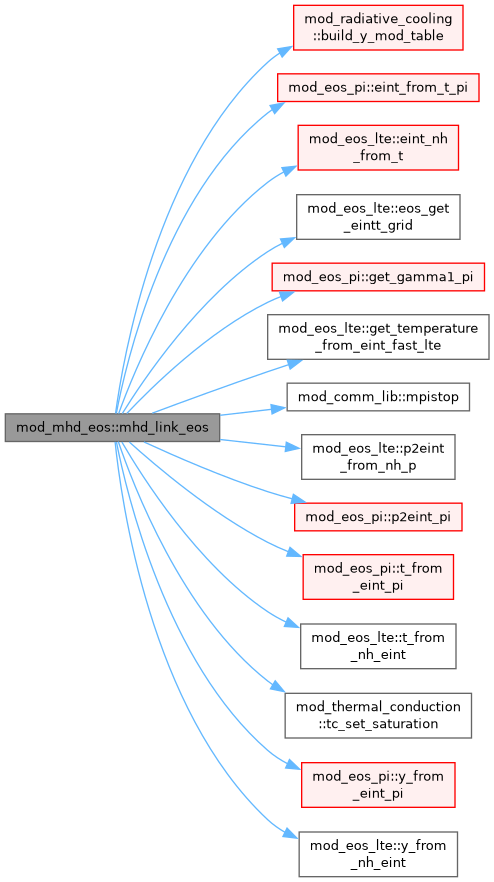
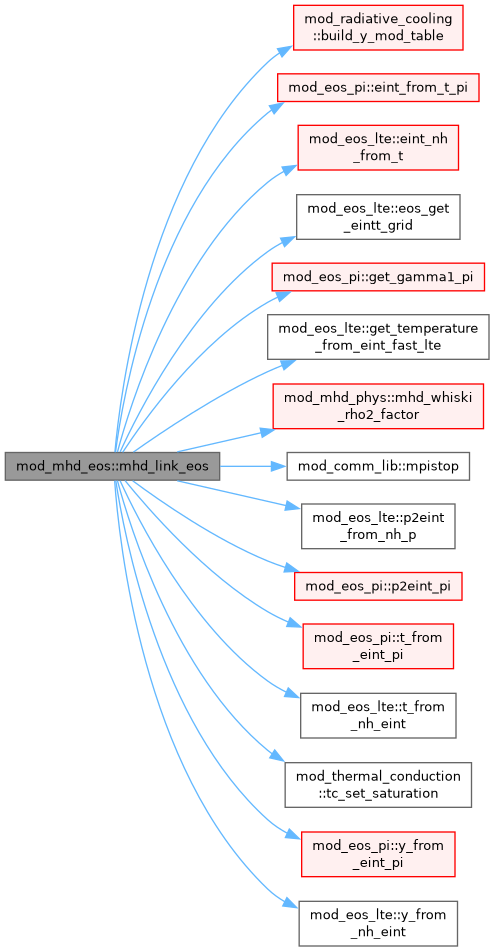
dev: deploy amrvac/amrvac@4fe51566e8b4ff9b4a8955e2d6c0c22a7fa722a2

diff --git a/mod__mhd__eos_8t_source.html b/mod__mhd__eos_8t_source.html
@@ -399,7 +399,7 @@ $(function() {
 <div class="line"><a id="l00315" name="l00315"></a><span class="lineno">  315</span>            <a class="code hl_variable" href="namespacemod__mhd__phys.html#adcca1862268ee54fa05cfb36ae7d0d48">rc_fl</a>%get_Te           =&gt; <a class="code hl_variable" href="namespacemod__eos__container.html#aad5b9c22f699a6e8a815b39b40e58c3b">eos</a>%get_Te</div>
 <div class="line"><a id="l00316" name="l00316"></a><span class="lineno">  316</span>            <a class="code hl_variable" href="namespacemod__mhd__phys.html#adcca1862268ee54fa05cfb36ae7d0d48">rc_fl</a>%get_ne_nH        =&gt; <a class="code hl_variable" href="namespacemod__eos__container.html#aad5b9c22f699a6e8a815b39b40e58c3b">eos</a>%get_ne_nH</div>
 <div class="line"><a id="l00317" name="l00317"></a><span class="lineno">  317</span>            <span class="keyword">nullify</span>(<a class="code hl_variable" href="namespacemod__mhd__phys.html#adcca1862268ee54fa05cfb36ae7d0d48">rc_fl</a>%get_rho2_factor)</div>
-<div class="line"><a id="l00318" name="l00318"></a><span class="lineno">  318</span>            <span class="keywordflow">if</span>(mhd_uawsom) <a class="code hl_variable" href="namespacemod__mhd__phys.html#adcca1862268ee54fa05cfb36ae7d0d48">rc_fl</a>%get_rho2_factor =&gt; mhd_uawsom_rho2_factor</div>
+<div class="line"><a id="l00318" name="l00318"></a><span class="lineno">  318</span>            <span class="keywordflow">if</span>(<a class="code hl_variable" href="namespacemod__mhd__phys.html#a7d524e70c8243d108fb944fdf430eb3a">mhd_whiski</a>) <a class="code hl_variable" href="namespacemod__mhd__phys.html#adcca1862268ee54fa05cfb36ae7d0d48">rc_fl</a>%get_rho2_factor =&gt; <a class="code hl_function" href="namespacemod__mhd__phys.html#a44de62723a9f463dcb064ebc69d0eabe">mhd_whiski_rho2_factor</a></div>
 <div class="line"><a id="l00319" name="l00319"></a><span class="lineno">  319</span>            <a class="code hl_variable" href="namespacemod__mhd__phys.html#adcca1862268ee54fa05cfb36ae7d0d48">rc_fl</a>%ionE              =  <a class="code hl_variable" href="namespacemod__eos__container.html#aad5b9c22f699a6e8a815b39b40e58c3b">eos</a>%ionE</div>
 <div class="line"><a id="l00320" name="l00320"></a><span class="lineno">  320</span>            <a class="code hl_variable" href="namespacemod__mhd__phys.html#adcca1862268ee54fa05cfb36ae7d0d48">rc_fl</a>%method_analytic   =  (<a class="code hl_variable" href="namespacemod__eos__container.html#aad5b9c22f699a6e8a815b39b40e58c3b">eos</a>%method_id == <a class="code hl_variable" href="namespacemod__eos__container.html#a0ae5bc58e4bc026852566124608cc16b">eos_analytic</a>)</div>
 <div class="line"><a id="l00321" name="l00321"></a><span class="lineno">  321</span>            <a class="code hl_variable" href="namespacemod__mhd__phys.html#adcca1862268ee54fa05cfb36ae7d0d48">rc_fl</a>%inv_gamma_minus_1 =  <a class="code hl_variable" href="namespacemod__eos__container.html#aad5b9c22f699a6e8a815b39b40e58c3b">eos</a>%inv_gamma_minus_1</div>
@@ -482,7 +482,7 @@ $(function() {
 <div class="line"><a id="l00398" name="l00398"></a><span class="lineno">  398</span>            w(ix^<a class="code hl_variable" href="namespacemod__global__parameters.html#a71ee003132d53879487a9076243b2402">d</a>,<a class="code hl_variable" href="namespacemod__mhd__phys.html#af2b9bdeeb09848cd198ccab0f78b68fd">e_</a>)=w(ix^<a class="code hl_variable" href="namespacemod__global__parameters.html#a71ee003132d53879487a9076243b2402">d</a>,<a class="code hl_variable" href="namespacemod__mhd__phys.html#ab5d8d7978ec9cd3f0a993f2ef2f69a06">p_</a>)*<a class="code hl_variable" href="namespacemod__eos__container.html#aad5b9c22f699a6e8a815b39b40e58c3b">eos</a>%inv_gamma_minus_1&amp;</div>
 <div class="line"><a id="l00399" name="l00399"></a><span class="lineno">  399</span>                      +half*((^<a class="code hl_variable" href="namespacemod__mhd__phys.html#ab9e60feb1a18a8074f83808e28247364">c</a>&amp;w(ix^<a class="code hl_variable" href="namespacemod__global__parameters.html#a71ee003132d53879487a9076243b2402">d</a>,<a class="code hl_variable" href="namespacemod__mhd__phys.html#a57989011f7e48288199305748bd4fa74">m</a>^<a class="code hl_variable" href="namespacemod__mhd__phys.html#a0285509f6d1009369a7680950f365ec2">c_</a>)**2+)*w(ix^<a class="code hl_variable" href="namespacemod__global__parameters.html#a71ee003132d53879487a9076243b2402">d</a>,<a class="code hl_variable" href="namespacemod__mhd__phys.html#ae48aad345c8ca4904b533b3f986c8263">rho_</a>)&amp;</div>
 <div class="line"><a id="l00400" name="l00400"></a><span class="lineno">  400</span>                      +(^<a class="code hl_variable" href="namespacemod__mhd__phys.html#ab9e60feb1a18a8074f83808e28247364">c</a>&amp;w(ix^<a class="code hl_variable" href="namespacemod__global__parameters.html#a71ee003132d53879487a9076243b2402">d</a>,<a class="code hl_variable" href="namespacemod__mhd__phys.html#ac21f646cc9e76a808c9e86b0c86d8a6f">b</a>^<a class="code hl_variable" href="namespacemod__mhd__phys.html#a0285509f6d1009369a7680950f365ec2">c_</a>)**2+))</div>
-<div class="line"><a id="l00401" name="l00401"></a><span class="lineno">  401</span>            <span class="keywordflow">if</span>(mhd_uawsom) w(ix^<a class="code hl_variable" href="namespacemod__global__parameters.html#a71ee003132d53879487a9076243b2402">d</a>,<a class="code hl_variable" href="namespacemod__mhd__phys.html#af2b9bdeeb09848cd198ccab0f78b68fd">e_</a>)=w(ix^<a class="code hl_variable" href="namespacemod__global__parameters.html#a71ee003132d53879487a9076243b2402">d</a>,<a class="code hl_variable" href="namespacemod__mhd__phys.html#af2b9bdeeb09848cd198ccab0f78b68fd">e_</a>)+&amp;</div>
+<div class="line"><a id="l00401" name="l00401"></a><span class="lineno">  401</span>            <span class="keywordflow">if</span>(<a class="code hl_variable" href="namespacemod__mhd__phys.html#a7d524e70c8243d108fb944fdf430eb3a">mhd_whiski</a>) w(ix^<a class="code hl_variable" href="namespacemod__global__parameters.html#a71ee003132d53879487a9076243b2402">d</a>,<a class="code hl_variable" href="namespacemod__mhd__phys.html#af2b9bdeeb09848cd198ccab0f78b68fd">e_</a>)=w(ix^<a class="code hl_variable" href="namespacemod__global__parameters.html#a71ee003132d53879487a9076243b2402">d</a>,<a class="code hl_variable" href="namespacemod__mhd__phys.html#af2b9bdeeb09848cd198ccab0f78b68fd">e_</a>)+&amp;</div>
 <div class="line"><a id="l00402" name="l00402"></a><span class="lineno">  402</span>                 w(ix^<a class="code hl_variable" href="namespacemod__global__parameters.html#a71ee003132d53879487a9076243b2402">d</a>,<a class="code hl_variable" href="namespacemod__mhd__phys.html#aaab717c0eb43a835a69521eef7cc131f">waplus_</a>)+w(ix^<a class="code hl_variable" href="namespacemod__global__parameters.html#a71ee003132d53879487a9076243b2402">d</a>,<a class="code hl_variable" href="namespacemod__mhd__phys.html#a87375e1db5231565b72e5a53272f0c3e">waminus_</a>)+w(ix^<a class="code hl_variable" href="namespacemod__global__parameters.html#a71ee003132d53879487a9076243b2402">d</a>,<a class="code hl_variable" href="namespacemod__mhd__phys.html#ade81ffa113469402c2928e0364aa7c19">wkplus_</a>)+w(ix^<a class="code hl_variable" href="namespacemod__global__parameters.html#a71ee003132d53879487a9076243b2402">d</a>,<a class="code hl_variable" href="namespacemod__mhd__phys.html#a3edb409252283b69b97e28398eeebd90">wkminus_</a>)</div>
 <div class="line"><a id="l00403" name="l00403"></a><span class="lineno">  403</span>            <span class="comment">! Convert velocity to momentum</span></div>
 <div class="line"><a id="l00404" name="l00404"></a><span class="lineno">  404</span>            ^<a class="code hl_variable" href="namespacemod__mhd__phys.html#ab9e60feb1a18a8074f83808e28247364">c</a>&amp;w(ix^<a class="code hl_variable" href="namespacemod__global__parameters.html#a71ee003132d53879487a9076243b2402">d</a>,<a class="code hl_variable" href="namespacemod__mhd__phys.html#a57989011f7e48288199305748bd4fa74">m</a>^<a class="code hl_variable" href="namespacemod__mhd__phys.html#a0285509f6d1009369a7680950f365ec2">c_</a>)=w(ix^<a class="code hl_variable" href="namespacemod__global__parameters.html#a71ee003132d53879487a9076243b2402">d</a>,<a class="code hl_variable" href="namespacemod__mhd__phys.html#ae48aad345c8ca4904b533b3f986c8263">rho_</a>)*w(ix^<a class="code hl_variable" href="namespacemod__global__parameters.html#a71ee003132d53879487a9076243b2402">d</a>,<a class="code hl_variable" href="namespacemod__mhd__phys.html#a57989011f7e48288199305748bd4fa74">m</a>^<a class="code hl_variable" href="namespacemod__mhd__phys.html#a0285509f6d1009369a7680950f365ec2">c_</a>)\</div>
@@ -682,7 +682,7 @@ $(function() {
 <div class="line"><a id="l00598" name="l00598"></a><span class="lineno">  598</span>            w(ix^<a class="code hl_variable" href="namespacemod__global__parameters.html#a71ee003132d53879487a9076243b2402">d</a>,p_)=eos%gamma_minus_1*(w(ix^<a class="code hl_variable" href="namespacemod__global__parameters.html#a71ee003132d53879487a9076243b2402">d</a>,e_)&amp;</div>
 <div class="line"><a id="l00599" name="l00599"></a><span class="lineno">  599</span>                      -half*(w(ix^<a class="code hl_variable" href="namespacemod__global__parameters.html#a71ee003132d53879487a9076243b2402">d</a>,rho_)*(^c&amp;w(ix^<a class="code hl_variable" href="namespacemod__global__parameters.html#a71ee003132d53879487a9076243b2402">d</a>,m^c_)**2+)&amp;</div>
 <div class="line"><a id="l00600" name="l00600"></a><span class="lineno">  600</span>                        +(^c&amp;w(ix^<a class="code hl_variable" href="namespacemod__global__parameters.html#a71ee003132d53879487a9076243b2402">d</a>,b^c_)**2+))&amp;</div>
-<div class="line"><a id="l00601" name="l00601"></a><span class="lineno">  601</span>                      -mhd_uawsom_wave_energy_cell(w(ix^<a class="code hl_variable" href="namespacemod__global__parameters.html#a71ee003132d53879487a9076243b2402">d</a>,:)))</div>
+<div class="line"><a id="l00601" name="l00601"></a><span class="lineno">  601</span>                      -mhd_whiski_wave_energy_cell(w(ix^<a class="code hl_variable" href="namespacemod__global__parameters.html#a71ee003132d53879487a9076243b2402">d</a>,:)))</div>
 <div class="line"><a id="l00602" name="l00602"></a><span class="lineno">  602</span>        {<span class="keyword">end </span>do\}</div>
 <div class="line"><a id="l00603" name="l00603"></a><span class="lineno">  603</span> </div>
 <div class="line"><a id="l00604" name="l00604"></a><span class="lineno">  604</span>    <span class="keyword">end subroutine </span>mhd_to_primitive_origin</div>
@@ -909,7 +909,7 @@ $(function() {
 <div class="line"><a id="l00825" name="l00825"></a><span class="lineno">  825</span>        <span class="keyword">call </span>mhd_p_to_eint(ixi^<a class="code hl_variable" href="namespacemod__global__parameters.html#a8242f42a9b14d7655e6eb74ee23e6195">l</a>,ixo^<a class="code hl_variable" href="namespacemod__global__parameters.html#a8242f42a9b14d7655e6eb74ee23e6195">l</a>,w,x)</div>
 <div class="line"><a id="l00826" name="l00826"></a><span class="lineno">  826</span>        {<span class="keywordflow">do</span> ix^db=ixomin^db,ixomax^db\}</div>
 <div class="line"><a id="l00827" name="l00827"></a><span class="lineno">  827</span>            w(ix^<a class="code hl_variable" href="namespacemod__global__parameters.html#a71ee003132d53879487a9076243b2402">d</a>,e_) = w(ix^<a class="code hl_variable" href="namespacemod__global__parameters.html#a71ee003132d53879487a9076243b2402">d</a>,e_) + half*((^c&amp;w(ix^<a class="code hl_variable" href="namespacemod__global__parameters.html#a71ee003132d53879487a9076243b2402">d</a>,m^c_)**2+)*w(ix^<a class="code hl_variable" href="namespacemod__global__parameters.html#a71ee003132d53879487a9076243b2402">d</a>,rho_) + (^c&amp;w(ix^<a class="code hl_variable" href="namespacemod__global__parameters.html#a71ee003132d53879487a9076243b2402">d</a>,b^c_)**2+))</div>
-<div class="line"><a id="l00828" name="l00828"></a><span class="lineno">  828</span>            <span class="keywordflow">if</span>(mhd_uawsom) w(ix^<a class="code hl_variable" href="namespacemod__global__parameters.html#a71ee003132d53879487a9076243b2402">d</a>,e_)=w(ix^<a class="code hl_variable" href="namespacemod__global__parameters.html#a71ee003132d53879487a9076243b2402">d</a>,e_)+&amp;</div>
+<div class="line"><a id="l00828" name="l00828"></a><span class="lineno">  828</span>            <span class="keywordflow">if</span>(mhd_whiski) w(ix^<a class="code hl_variable" href="namespacemod__global__parameters.html#a71ee003132d53879487a9076243b2402">d</a>,e_)=w(ix^<a class="code hl_variable" href="namespacemod__global__parameters.html#a71ee003132d53879487a9076243b2402">d</a>,e_)+&amp;</div>
 <div class="line"><a id="l00829" name="l00829"></a><span class="lineno">  829</span>                 w(ix^<a class="code hl_variable" href="namespacemod__global__parameters.html#a71ee003132d53879487a9076243b2402">d</a>,waplus_)+w(ix^<a class="code hl_variable" href="namespacemod__global__parameters.html#a71ee003132d53879487a9076243b2402">d</a>,waminus_)+w(ix^<a class="code hl_variable" href="namespacemod__global__parameters.html#a71ee003132d53879487a9076243b2402">d</a>,wkplus_)+w(ix^<a class="code hl_variable" href="namespacemod__global__parameters.html#a71ee003132d53879487a9076243b2402">d</a>,wkminus_)</div>
 <div class="line"><a id="l00830" name="l00830"></a><span class="lineno">  830</span>        {<span class="keyword">end </span>do\}</div>
 <div class="line"><a id="l00831" name="l00831"></a><span class="lineno">  831</span> </div>
@@ -1338,7 +1338,7 @@ $(function() {
 <div class="line"><a id="l01254" name="l01254"></a><span class="lineno"> 1254</span>                     +(^c&amp;w(ix^<a class="code hl_variable" href="namespacemod__global__parameters.html#a71ee003132d53879487a9076243b2402">d</a>,b^c_)**2+)))+<a class="code hl_variable" href="namespacemod__global__parameters.html#a026d4f7c417820e04a0731db6833204b">block</a>%equi_vars(ix^<a class="code hl_variable" href="namespacemod__global__parameters.html#a71ee003132d53879487a9076243b2402">d</a>,equi_pe0_,0)</div>
 <div class="line"><a id="l01255" name="l01255"></a><span class="lineno"> 1255</span>            <span class="keywordflow">else</span></div>
 <div class="line"><a id="l01256" name="l01256"></a><span class="lineno"> 1256</span>                pth(ix^<a class="code hl_variable" href="namespacemod__global__parameters.html#a71ee003132d53879487a9076243b2402">d</a>)=eos%gamma_minus_1*(w(ix^<a class="code hl_variable" href="namespacemod__global__parameters.html#a71ee003132d53879487a9076243b2402">d</a>,e_)-half*((^c&amp;w(ix^<a class="code hl_variable" href="namespacemod__global__parameters.html#a71ee003132d53879487a9076243b2402">d</a>,m^c_)**2+)/w(ix^<a class="code hl_variable" href="namespacemod__global__parameters.html#a71ee003132d53879487a9076243b2402">d</a>,rho_)&amp;</div>
-<div class="line"><a id="l01257" name="l01257"></a><span class="lineno"> 1257</span>                     +(^c&amp;w(ix^<a class="code hl_variable" href="namespacemod__global__parameters.html#a71ee003132d53879487a9076243b2402">d</a>,b^c_)**2+))-mhd_uawsom_wave_energy_cell(w(ix^<a class="code hl_variable" href="namespacemod__global__parameters.html#a71ee003132d53879487a9076243b2402">d</a>,:)))</div>
+<div class="line"><a id="l01257" name="l01257"></a><span class="lineno"> 1257</span>                     +(^c&amp;w(ix^<a class="code hl_variable" href="namespacemod__global__parameters.html#a71ee003132d53879487a9076243b2402">d</a>,b^c_)**2+))-mhd_whiski_wave_energy_cell(w(ix^<a class="code hl_variable" href="namespacemod__global__parameters.html#a71ee003132d53879487a9076243b2402">d</a>,:)))</div>
 <div class="line"><a id="l01258" name="l01258"></a><span class="lineno"> 1258</span><span class="keywordflow">            end if</span></div>
 <div class="line"><a id="l01259" name="l01259"></a><span class="lineno"> 1259</span>            <span class="keywordflow">if</span>(<a class="code hl_variable" href="namespacemod__global__parameters.html#ac00b1fb8c041c78556efef827450962a">fix_small_values</a>.and.pth(ix^<a class="code hl_variable" href="namespacemod__global__parameters.html#a71ee003132d53879487a9076243b2402">d</a>)&lt;<a class="code hl_variable" href="namespacemod__global__parameters.html#a19f0c8766e32f669bc7680685a55ea33">small_pressure</a>) pth(ix^<a class="code hl_variable" href="namespacemod__global__parameters.html#a71ee003132d53879487a9076243b2402">d</a>)=<a class="code hl_variable" href="namespacemod__global__parameters.html#a19f0c8766e32f669bc7680685a55ea33">small_pressure</a></div>
 <div class="line"><a id="l01260" name="l01260"></a><span class="lineno"> 1260</span>        {<span class="keyword">end </span>do\}</div>
@@ -1898,11 +1898,13 @@ $(function() {
 <div class="ttc" id="anamespacemod__mhd__phys_html_a0285509f6d1009369a7680950f365ec2"><div class="ttname"><a href="namespacemod__mhd__phys.html#a0285509f6d1009369a7680950f365ec2">mod_mhd_phys::c_</a></div><div class="ttdeci">integer, public, protected c_</div><div class="ttdef"><b>Definition</b> <a href="mod__mhd__phys_8t_source.html#l00086">mod_mhd_phys.t:86</a></div></div>
 <div class="ttc" id="anamespacemod__mhd__phys_html_a0d6a92d69d09e86bb927cc30c4d43bea"><div class="ttname"><a href="namespacemod__mhd__phys.html#a0d6a92d69d09e86bb927cc30c4d43bea">mod_mhd_phys::mhd_internal_e</a></div><div class="ttdeci">logical, public, protected mhd_internal_e</div><div class="ttdoc">Whether internal energy is solved instead of total energy.</div><div class="ttdef"><b>Definition</b> <a href="mod__mhd__phys_8t_source.html#l00190">mod_mhd_phys.t:190</a></div></div>
 <div class="ttc" id="anamespacemod__mhd__phys_html_a3edb409252283b69b97e28398eeebd90"><div class="ttname"><a href="namespacemod__mhd__phys.html#a3edb409252283b69b97e28398eeebd90">mod_mhd_phys::wkminus_</a></div><div class="ttdeci">integer, public, protected wkminus_</div><div class="ttdef"><b>Definition</b> <a href="mod__mhd__phys_8t_source.html#l00114">mod_mhd_phys.t:114</a></div></div>
+<div class="ttc" id="anamespacemod__mhd__phys_html_a44de62723a9f463dcb064ebc69d0eabe"><div class="ttname"><a href="namespacemod__mhd__phys.html#a44de62723a9f463dcb064ebc69d0eabe">mod_mhd_phys::mhd_whiski_rho2_factor</a></div><div class="ttdeci">subroutine, public mhd_whiski_rho2_factor(ixil, ixol, w, x, factor)</div><div class="ttdef"><b>Definition</b> <a href="mod__mhd__phys_8t_source.html#l02129">mod_mhd_phys.t:2130</a></div></div>
 <div class="ttc" id="anamespacemod__mhd__phys_html_a4e318bf509928fec0d022700724a6e30"><div class="ttname"><a href="namespacemod__mhd__phys.html#a4e318bf509928fec0d022700724a6e30">mod_mhd_phys::tc_fl</a></div><div class="ttdeci">type(tc_fluid), allocatable, public tc_fl</div><div class="ttdoc">type of fluid for thermal conduction</div><div class="ttdef"><b>Definition</b> <a href="mod__mhd__phys_8t_source.html#l00253">mod_mhd_phys.t:253</a></div></div>
 <div class="ttc" id="anamespacemod__mhd__phys_html_a4f7695ccca82c8bade13cb4f1863fb44"><div class="ttname"><a href="namespacemod__mhd__phys.html#a4f7695ccca82c8bade13cb4f1863fb44">mod_mhd_phys::mhd_semirelativistic</a></div><div class="ttdeci">logical, public, protected mhd_semirelativistic</div><div class="ttdoc">Whether semirelativistic MHD equations (Gombosi 2002 JCP) are solved.</div><div class="ttdef"><b>Definition</b> <a href="mod__mhd__phys_8t_source.html#l00196">mod_mhd_phys.t:196</a></div></div>
 <div class="ttc" id="anamespacemod__mhd__phys_html_a57989011f7e48288199305748bd4fa74"><div class="ttname"><a href="namespacemod__mhd__phys.html#a57989011f7e48288199305748bd4fa74">mod_mhd_phys::m</a></div><div class="ttdeci">integer, public, protected m</div><div class="ttdef"><b>Definition</b> <a href="mod__mhd__phys_8t_source.html#l00086">mod_mhd_phys.t:86</a></div></div>
 <div class="ttc" id="anamespacemod__mhd__phys_html_a6bf349a74175b509bed6b2c19c3deceb"><div class="ttname"><a href="namespacemod__mhd__phys.html#a6bf349a74175b509bed6b2c19c3deceb">mod_mhd_phys::te_fl_mhd</a></div><div class="ttdeci">type(te_fluid), allocatable, public te_fl_mhd</div><div class="ttdoc">type of fluid for thermal emission synthesis</div><div class="ttdef"><b>Definition</b> <a href="mod__mhd__phys_8t_source.html#l00255">mod_mhd_phys.t:255</a></div></div>
 <div class="ttc" id="anamespacemod__mhd__phys_html_a7a223d0936ba5e2ccafb8b869eae8e65"><div class="ttname"><a href="namespacemod__mhd__phys.html#a7a223d0936ba5e2ccafb8b869eae8e65">mod_mhd_phys::has_equi_rho_and_p</a></div><div class="ttdeci">logical, public has_equi_rho_and_p</div><div class="ttdoc">whether split off equilibrium density and pressure</div><div class="ttdef"><b>Definition</b> <a href="mod__mhd__phys_8t_source.html#l00206">mod_mhd_phys.t:206</a></div></div>
+<div class="ttc" id="anamespacemod__mhd__phys_html_a7d524e70c8243d108fb944fdf430eb3a"><div class="ttname"><a href="namespacemod__mhd__phys.html#a7d524e70c8243d108fb944fdf430eb3a">mod_mhd_phys::mhd_whiski</a></div><div class="ttdeci">logical, public, protected mhd_whiski</div><div class="ttdoc">Enable the Uniturbulence and Alfven Wave Solar Model extension.</div><div class="ttdef"><b>Definition</b> <a href="mod__mhd__phys_8t_source.html#l00213">mod_mhd_phys.t:213</a></div></div>
 <div class="ttc" id="anamespacemod__mhd__phys_html_a87375e1db5231565b72e5a53272f0c3e"><div class="ttname"><a href="namespacemod__mhd__phys.html#a87375e1db5231565b72e5a53272f0c3e">mod_mhd_phys::waminus_</a></div><div class="ttdeci">integer, public, protected waminus_</div><div class="ttdef"><b>Definition</b> <a href="mod__mhd__phys_8t_source.html#l00114">mod_mhd_phys.t:114</a></div></div>
 <div class="ttc" id="anamespacemod__mhd__phys_html_a8ff14228800ce9c34c8a67eb24439e53"><div class="ttname"><a href="namespacemod__mhd__phys.html#a8ff14228800ce9c34c8a67eb24439e53">mod_mhd_phys::mhd_energy</a></div><div class="ttdeci">logical, public, protected mhd_energy</div><div class="ttdoc">Whether an energy equation is used.</div><div class="ttdef"><b>Definition</b> <a href="mod__mhd__phys_8t_source.html#l00144">mod_mhd_phys.t:144</a></div></div>
 <div class="ttc" id="anamespacemod__mhd__phys_html_a9a6561f0e5f6cc84840bc605ef7e59e0"><div class="ttname"><a href="namespacemod__mhd__phys.html#a9a6561f0e5f6cc84840bc605ef7e59e0">mod_mhd_phys::fld_fl</a></div><div class="ttdeci">type(fld_fluid), allocatable, public fld_fl</div><div class="ttdoc">Radiation fluid object (gas-EoS callbacks for FLD), wired in mhd_link_eos.</div><div class="ttdef"><b>Definition</b> <a href="mod__mhd__phys_8t_source.html#l00204">mod_mhd_phys.t:204</a></div></div>

diff --git a/namespacemod__mhd__eos.html b/namespacemod__mhd__eos.html
@@ -140,35 +140,37 @@ Here is the call graph for this function:</div>
 <div class="dyncontent">
 <div class="center"><img src="namespacemod__mhd__eos_a04e0c133e48738f415b967f31dfb2214_cgraph.png" border="0" usemap="#anamespacemod__mhd__eos_a04e0c133e48738f415b967f31dfb2214_cgraph" loading="lazy" alt=""/></div>
 <map name="anamespacemod__mhd__eos_a04e0c133e48738f415b967f31dfb2214_cgraph" id="anamespacemod__mhd__eos_a04e0c133e48738f415b967f31dfb2214_cgraph">
-<area shape="rect" title="Link the appropriate EOS conversion routines based on the selected EoS type." alt="" coords="5,414,220,442"/>
+<area shape="rect" title="Link the appropriate EOS conversion routines based on the selected EoS type." alt="" coords="5,452,220,480"/>
 <area shape="rect" href="namespacemod__radiative__cooling.html#a6734611e0cdf1279b4fb32cb3322dbaa" title="===================================================================" alt="" coords="294,5,463,50"/>
-<area shape="poly" title=" " alt="" coords="113,413,124,349,150,255,170,203,196,151,227,103,266,60,282,51,279,55,269,64,232,106,200,154,175,205,155,256,129,350,118,414"/>
+<area shape="poly" title=" " alt="" coords="112,452,121,382,145,278,165,220,191,162,225,108,266,60,282,50,279,55,270,64,229,111,196,164,170,222,151,279,127,383,118,453"/>
 <area shape="rect" href="namespacemod__eos__pi.html#a6db481882d7d8de88ef604b90d828c4d" title="Internal energy per H from temperature: eint/nH(T)." alt="" coords="278,74,479,102"/>
-<area shape="poly" title=" " alt="" coords="114,413,127,356,154,274,175,230,200,186,230,146,266,111,274,107,271,112,269,115,234,149,204,189,179,232,159,276,132,358,119,414"/>
+<area shape="poly" title=" " alt="" coords="113,452,124,389,149,297,169,246,195,197,227,151,266,111,274,107,271,112,269,115,231,154,200,199,174,248,155,299,129,390,118,453"/>
 <area shape="rect" href="namespacemod__eos__lte.html#a6f13cf75af7de7e50bf276ccc566f901" title="eint/nH from (log10 nH, log10 T), from the inverse table when one is built and the Saha solve otherwi..." alt="" coords="298,125,458,170"/>
-<area shape="poly" title=" " alt="" coords="116,413,134,368,165,305,209,238,236,207,266,180,286,170,282,174,269,184,240,211,213,242,170,308,139,370,121,414"/>
+<area shape="poly" title=" " alt="" coords="115,451,131,400,160,327,180,288,205,249,233,212,266,180,286,169,283,173,269,184,237,216,209,252,185,290,165,330,136,402,120,453"/>
 <area shape="rect" href="namespacemod__eos__lte.html#aba25e77fd2560dad035795115a1da4b7" title="####################################################################### Table&#45;metadata helpers: expos..." alt="" coords="297,195,460,239"/>
-<area shape="poly" title=" " alt="" coords="120,412,175,335,217,289,266,249,284,241,281,245,269,254,221,293,179,339,125,415"/>
+<area shape="poly" title=" " alt="" coords="118,451,137,411,169,357,213,299,238,273,266,250,285,240,281,244,269,254,242,277,217,303,174,360,142,413,123,453"/>
 <area shape="rect" href="namespacemod__eos__pi.html#abebe95a10a89427265c7a3b274a226c8" title="Effective Gamma1 = cs2 * rho / p for the same primitive state." alt="" coords="272,263,484,291"/>
-<area shape="poly" title=" " alt="" coords="125,412,182,357,223,326,266,300,283,295,279,298,269,305,226,331,186,361,129,415"/>
+<area shape="poly" title=" " alt="" coords="120,451,142,419,176,378,218,336,266,300,280,295,276,299,269,305,221,340,180,382,147,422,125,453"/>
 <area shape="rect" href="namespacemod__eos__lte.html#a7eb2db76bedf9e4a2749ac95f164028c" title=" " alt="" coords="268,315,489,359"/>
-<area shape="poly" title=" " alt="" coords="151,411,267,369,291,363,287,366,269,374,154,415"/>
-<area shape="rect" href="namespacemod__comm__lib.html#a9b6f1a8fd13bc5670e3b426151c34048" title="Exit MPI&#45;AMRVAC with an error message." alt="" coords="287,383,470,411"/>
-<area shape="poly" title=" " alt="" coords="219,413,274,408,270,411,222,418"/>
-<area shape="rect" href="namespacemod__eos__lte.html#a4a9da8961173fdb2bd397004a5c543ce" title="Ratio eint/p from (log10 nH, log10 p/nH)." alt="" coords="302,435,455,479"/>
-<area shape="poly" title=" " alt="" coords="219,437,288,445,284,448,221,442"/>
-<area shape="rect" href="namespacemod__eos__pi.html#a2e629488e9eaf056d980f8e1ff2c3a7d" title="eint/p factor from pressure per H: maps p &#45;&gt; eint = p * (this)." alt="" coords="295,503,462,531"/>
-<area shape="poly" title=" " alt="" coords="143,439,202,464,269,489,295,498,290,500,267,494,200,469,145,444"/>
-<area shape="rect" href="namespacemod__eos__pi.html#ad9ef13a12258d8519ad41bc7b3b9a540" title="Temperature from internal energy per H." alt="" coords="303,555,454,599"/>
-<area shape="poly" title=" " alt="" coords="129,439,189,488,228,516,269,540,291,551,286,553,266,545,225,520,186,493,130,445"/>
-<area shape="rect" href="namespacemod__eos__lte.html#ad1e325f142fa31bedb6a09fc519d7061" title="Temperature from (log10 nH, log10 eint/nH)." alt="" coords="301,624,456,669"/>
-<area shape="poly" title=" " alt="" coords="122,439,145,475,178,520,220,568,269,609,289,622,284,623,266,614,216,572,174,524,141,478,122,445"/>
-<area shape="rect" href="namespacemod__thermal__conduction.html#a758d51cef97a867c4d11ccde3747dd73" title="Saturated flux factor. q_sat = 5 phi rho c**3 (Cowie &amp; McKee 1977 eq 8), c**2 = xt kT/m_p with xt the..." alt="" coords="285,693,472,738"/>
-<area shape="poly" title=" " alt="" coords="118,439,138,486,169,551,212,620,239,651,269,679,276,685,270,685,266,683,235,655,208,623,164,553,133,488,118,444"/>
-<area shape="rect" href="namespacemod__eos__pi.html#a9630051643d79b0e600206bafcf801aa" title="Electron&#45;to&#45;hydrogen ratio ne/nH from internal energy per H. ne/nH = iz_H + A_He*iz_He*(1+iz_He) (mat..." alt="" coords="302,763,455,807"/>
-<area shape="poly" title=" " alt="" coords="117,439,133,498,160,581,180,626,205,671,235,712,269,748,291,764,285,764,266,752,230,716,200,673,176,628,155,583,127,500,116,445"/>
-<area shape="rect" href="namespacemod__eos__lte.html#a751d9926470ec56007930115bf5b7875" title="Scalar EoS kernels: one cell on (log10 nH, log10 eint/nH) or (log10 nH, log10 p/nH),..." alt="" coords="299,832,458,877"/>
-<area shape="poly" title=" " alt="" coords="115,439,127,509,152,610,172,666,197,721,230,773,269,818,288,833,283,832,266,822,225,776,193,723,167,668,147,611,122,510,115,444"/>
+<area shape="poly" title=" " alt="" coords="131,450,191,411,267,369,284,364,280,367,269,374,193,415,135,454"/>
+<area shape="rect" href="namespacemod__mhd__phys.html#a44de62723a9f463dcb064ebc69d0eabe" title=" " alt="" coords="273,384,484,429"/>
+<area shape="poly" title=" " alt="" coords="176,450,263,431,260,435,179,454"/>
+<area shape="rect" href="namespacemod__comm__lib.html#a9b6f1a8fd13bc5670e3b426151c34048" title="Exit MPI&#45;AMRVAC with an error message." alt="" coords="287,452,470,480"/>
+<area shape="poly" title=" " alt="" coords="219,464,274,465,269,468,221,469"/>
+<area shape="rect" href="namespacemod__eos__lte.html#a4a9da8961173fdb2bd397004a5c543ce" title="Ratio eint/p from (log10 nH, log10 p/nH)." alt="" coords="302,504,455,549"/>
+<area shape="poly" title=" " alt="" coords="176,478,289,504,284,507,178,483"/>
+<area shape="rect" href="namespacemod__eos__pi.html#a2e629488e9eaf056d980f8e1ff2c3a7d" title="eint/p factor from pressure per H: maps p &#45;&gt; eint = p * (this)." alt="" coords="295,572,462,600"/>
+<area shape="poly" title=" " alt="" coords="132,478,192,518,230,540,269,559,288,567,283,568,267,563,227,545,190,523,133,483"/>
+<area shape="rect" href="namespacemod__eos__pi.html#ad9ef13a12258d8519ad41bc7b3b9a540" title="Temperature from internal energy per H." alt="" coords="303,624,454,669"/>
+<area shape="poly" title=" " alt="" coords="125,478,184,541,224,578,269,609,291,622,286,623,266,614,221,582,180,545,125,483"/>
+<area shape="rect" href="namespacemod__eos__lte.html#ad1e325f142fa31bedb6a09fc519d7061" title="Temperature from (log10 nH, log10 eint/nH)." alt="" coords="301,693,456,738"/>
+<area shape="poly" title=" " alt="" coords="120,478,142,519,174,573,217,630,242,656,269,679,289,692,284,693,266,683,238,660,213,633,169,576,137,522,120,483"/>
+<area shape="rect" href="namespacemod__thermal__conduction.html#a758d51cef97a867c4d11ccde3747dd73" title="Saturated flux factor. q_sat = 5 phi rho c**3 (Cowie &amp; McKee 1977 eq 8), c**2 = xt kT/m_p with xt the..." alt="" coords="285,763,472,807"/>
+<area shape="poly" title=" " alt="" coords="118,478,136,531,165,603,185,642,209,681,237,717,269,748,275,754,270,754,266,752,233,720,205,684,180,645,160,605,131,532,117,483"/>
+<area shape="rect" href="namespacemod__eos__pi.html#a9630051643d79b0e600206bafcf801aa" title="Electron&#45;to&#45;hydrogen ratio ne/nH from internal energy per H. ne/nH = iz_H + A_He*iz_He*(1+iz_He) (mat..." alt="" coords="302,832,455,877"/>
+<area shape="poly" title=" " alt="" coords="116,478,130,542,157,632,176,682,202,731,232,778,269,818,290,834,285,833,266,822,228,781,197,734,172,684,151,634,125,543,116,483"/>
+<area shape="rect" href="namespacemod__eos__lte.html#a751d9926470ec56007930115bf5b7875" title="Scalar EoS kernels: one cell on (log10 nH, log10 eint/nH) or (log10 nH, log10 p/nH),..." alt="" coords="299,901,458,946"/>
+<area shape="poly" title=" " alt="" coords="115,478,125,552,148,662,168,722,194,782,228,838,269,887,288,902,282,901,266,891,223,841,189,784,163,724,143,663,120,553,114,483"/>
 </map>
 </div>
 
